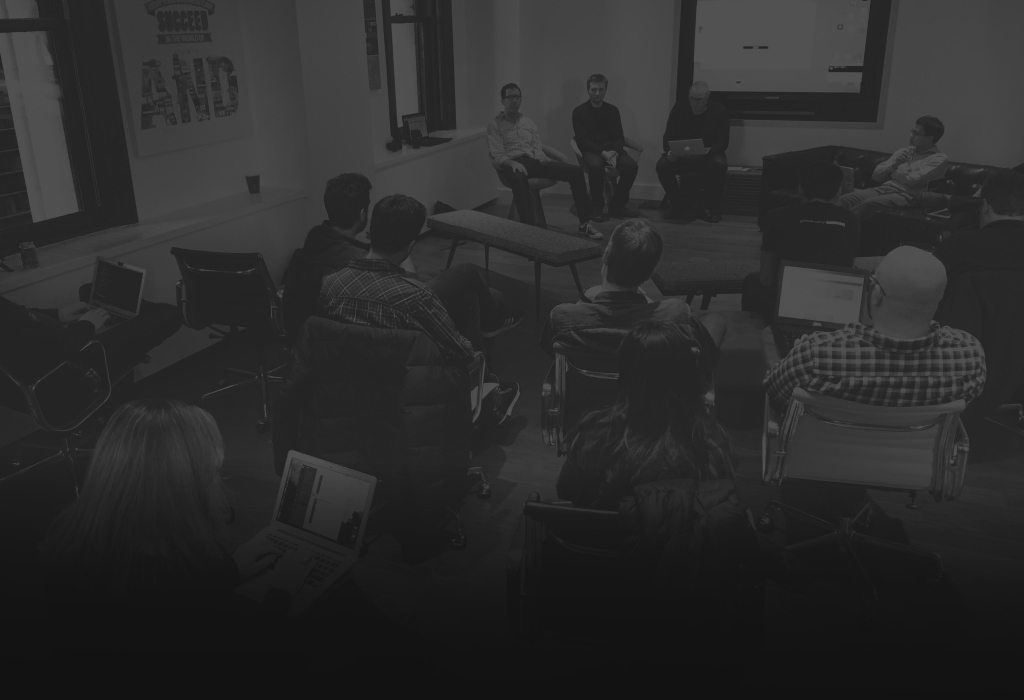
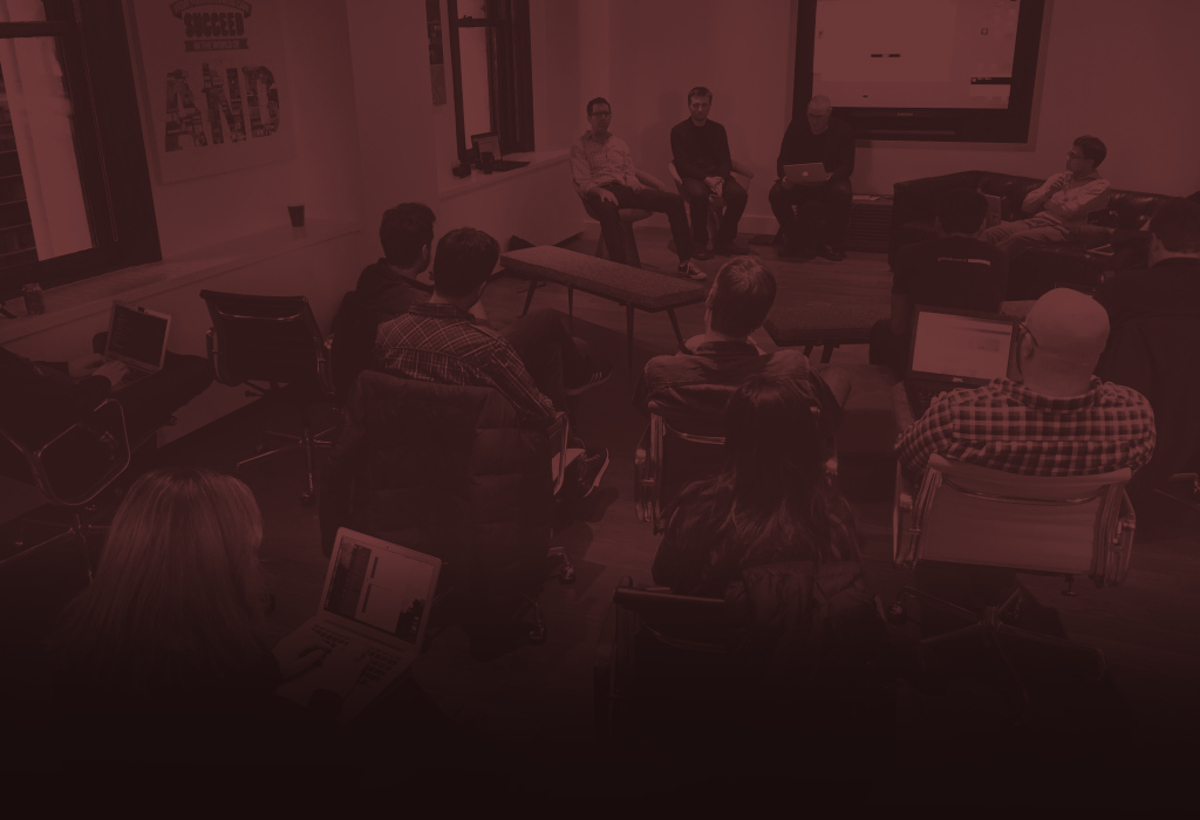
Less is more.

diff --git a/public/css/styles.1.3.css b/public/css/styles.1.3.css
@@ -1,0 +1,119 @@
+*,
+*:before,
+*:after {
+  -webkit-box-sizing: border-box;
+  -moz-box-sizing: border-box;
+  box-sizing: border-box;
+}
+html,
+body {
+  font-family: "Source Serif Pro", serif;
+  color: #ffffff;
+  text-shadow: 0 0 2px #323232;
+  font-size: 1.3em;
+  margin: 0;
+  min-height: 100%;
+  background-color: #170c0c;
+}
+header,
+section {
+  max-width: 1200px;
+  margin: 0 auto;
+}
+#content {
+  border-top: 12px solid #281d1d;
+  background: url('../images/botwiki-edit-a-thon.jpg') center top no-repeat;
+  -webkit-box-shadow: 0 5px 40px rgba(0, 0, 0, 0.3);
+  box-shadow: 0 5px 40px rgba(0, 0, 0, 0.3);
+  padding: 1em;
+}
+@media (min-width: 800px) {
+  header p {
+    text-align: justify;
+  }
+}
+section {
+  font-weight: bold;
+  min-height: 100%;
+  margin: 0 auto;
+  padding: 10px;
+}
+form {
+  padding: 1em 0 2em;
+}
+input,
+button {
+  font-family: 'Merriweather Sans';
+  display: block;
+  width: 100%;
+  margin: 0 auto;
+  padding: 10px;
+  font-size: 0.8em;
+  padding: 20px;
+  cursor: pointer;
+}
+input {
+  border: 5px solid #ffffff;
+}
+input:focus {
+  border-color: #ffffff;
+  outline: none;
+  cursor: text;
+}
+input,
+input:focus {
+  -webkit-transition: border-color 0.3s;
+  transition: border-color 0.3s;
+}
+button {
+  color: #fff;
+  font-weight: bold;
+  background: #170c0c;
+  text-align: center;
+  border: none;
+}
+h1 {
+  font-size: 2em;
+  text-align: center;
+  margin: 0 0 4em;
+}
+@media (max-width: 900px) {
+  h1 {
+    margin: 4em 0 1em;
+  }
+}
+a {
+  color: #ffffff;
+  -webkit-transition: color 0.5s;
+  transition: color 0.5s;
+}
+a:hover {
+  color: #ffffff;
+}
+footer {
+  font-weight: normal;
+  border-top: 1px solid #281d1d;
+  margin: 0 auto;
+}
+@media (min-width: 800px) {
+  footer {
+    text-align: justify;
+  }
+}
+footer ul {
+  padding: 0;
+}
+footer ul li {
+  display: inline;
+}
+.chromeframe {
+  margin: 0.2em 0;
+  background: #ccc;
+  color: #000;
+  padding: 5px;
+}
+/* Animations */
+.unshifted {
+  -webkit-transition: -webkit-transform 1s, opacity 1s;
+  transition: transform 1s, opacity 1s;
+}

diff --git a/public/js/scripts.1.1.min.js b/public/js/scripts.1.1.min.js
@@ -1,0 +1,2 @@
+"strict";function ready(t){"loading"!==document.readyState?t():document.addEventListener("DOMContentLoaded",t)}ready(function(){var t=document.getElementsByClassName("shifted");t.length>0&&Array.prototype.forEach.call(t,function(t,e){setTimeout(function(){t.classList.remove("shifted"),t.classList.add("unshifted")},55*e*e)})});
[1 lines of base64/hex data omitted]

diff --git a/public/css/styles.1.3.min.css b/public/css/styles.1.3.min.css
@@ -1,0 +1,1 @@
+*,:after,:before{-webkit-box-sizing:border-box;-moz-box-sizing:border-box;box-sizing:border-box}body,html{font-family:"Source Serif Pro",serif;color:#fff;text-shadow:0 0 2px #323232;font-size:1.3em;margin:0;min-height:100%;background-color:#170c0c}header,section{max-width:1200px;margin:0 auto}#content{border-top:12px solid #281d1d;background:url(../images/botwiki-edit-a-thon.jpg) center top no-repeat;-webkit-box-shadow:0 5px 40px rgba(0,0,0,.3);box-shadow:0 5px 40px rgba(0,0,0,.3);padding:1em}@media (min-width:800px){header p{text-align:justify}}section{font-weight:700;min-height:100%;margin:0 auto;padding:10px}form{padding:1em 0 2em}button,input{font-family:'Merriweather Sans';display:block;width:100%;margin:0 auto;font-size:.8em;padding:20px;cursor:pointer}input{border:5px solid #fff}input:focus{border-color:#fff;outline:0;cursor:text}input,input:focus{-webkit-transition:border-color .3s;transition:border-color .3s}button{color:#fff;font-weight:700;background:#170c0c;text-align:center;border:none}h1{font-size:2em;text-align:center;margin:0 0 4em}@media (max-width:900px){h1{margin:4em 0 1em}}a{color:#fff;-webkit-transition:color .5s;transition:color .5s}a:hover{color:#fff}footer{font-weight:400;border-top:1px solid #281d1d;margin:0 auto}@media (min-width:800px){footer{text-align:justify}}footer ul{padding:0}footer ul li{display:inline}.chromeframe{margin:.2em 0;background:#ccc;color:#000;padding:5px}.unshifted{-webkit-transition:-webkit-transform 1s,opacity 1s;transition:transform 1s,opacity 1s}

diff --git a/src/styles/styles.1.3.less b/src/styles/styles.1.3.less
@@ -1,7 +1,7 @@
 @main-color: #fff;
-@background-color: #121212;
+@background-color: #170c0c;
 @link-color: #fff;
-@site-width: 1024px;
+@site-width: 1200px;
 
 *, *:before, *:after {
   box-sizing: border-box;
@@ -12,7 +12,7 @@ body{
   font-family: "Source Serif Pro", serif;
   color: @main-color;
   text-shadow: 0 0 2px #323232;
-  font-size: 1.2em;
+  font-size: 1.3em;
   margin: 0;
   min-height: 100%;
   background-color: @background-color;
@@ -34,6 +34,7 @@ header p{
   }
 }
 section{
+  font-weight: bold;
   min-height: 100%;
   margin: 0 auto;
   padding: 10px;
@@ -68,7 +69,7 @@ button{
   color: #fff;
   font-weight: bold;
   background: @background-color;
-  text-align: left;
+  text-align: center;
   border: none;
 }
 h1{
@@ -88,6 +89,7 @@ a:hover{
   color: @link-color + #222;
 }
 footer{
+  font-weight: normal;
   @media (min-width: 800px) {
     text-align: justify;
   }

diff --git a/src/scripts/scripts.1.1.js b/src/scripts/scripts.1.1.js
@@ -1,0 +1,23 @@
+"strict";
+
+function ready(fn) {
+  if (document.readyState !== 'loading'){
+    fn();
+  } else {
+    document.addEventListener('DOMContentLoaded', fn);
+  }
+}
+
+ready(function(){
+  var shiftedEls = document.getElementsByClassName('shifted');
+  if (shiftedEls.length > 0){
+    Array.prototype.forEach.call(shiftedEls, function(el, index) {
+      setTimeout(
+        function(){
+          el.classList.remove('shifted');
+          el.classList.add('unshifted');
+        },
+        55*index*index);
+    });
+  }
+});

diff --git a/public/js/scripts.1.1.js b/public/js/scripts.1.1.js
@@ -17,7 +17,7 @@ ready(function(){
           el.classList.remove('shifted');
           el.classList.add('unshifted');
         },
-        15*index*index);
+        55*index*index);
     });
   }
 });
